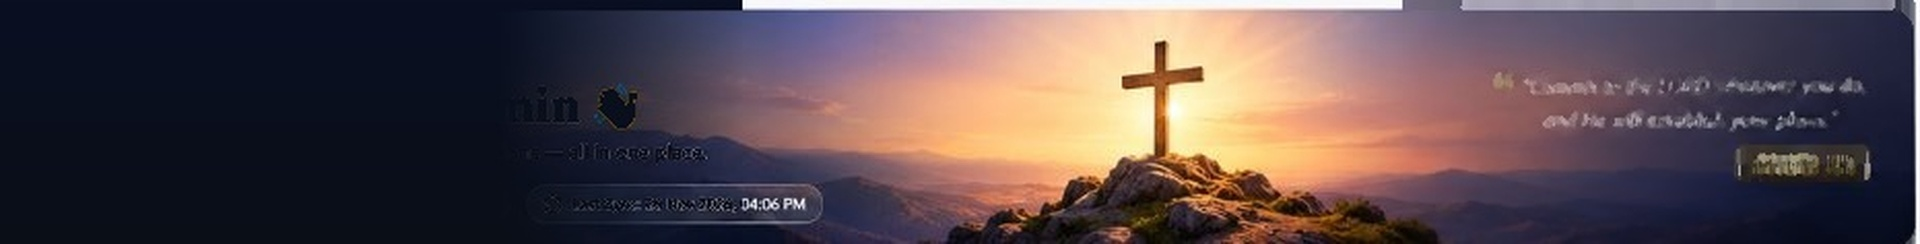
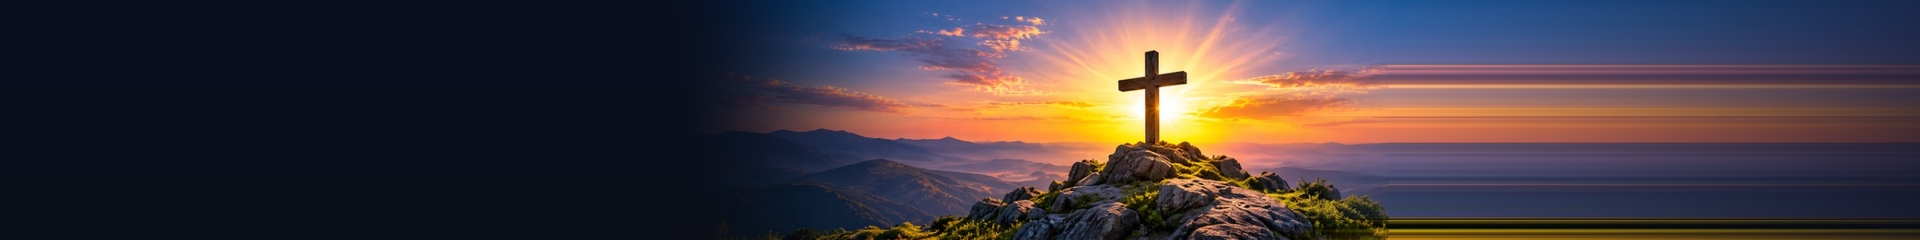
fix(admin): generate clean background from raw photo and update UI to match screenshot

diff --git a/src/app/admin/page.tsx b/src/app/admin/page.tsx
@@ -419,7 +419,7 @@ export default function AdminDashboardPage() {
 
                   {/* Badge 2: Role: SUPERADMIN */}
                   <span className="inline-flex items-center px-3 py-1 rounded-full bg-[#162130]/90 border border-amber-400/40 text-amber-300 text-[11px] font-extrabold uppercase tracking-wider shadow-xs">
-                    Role: {role ? role.toUpperCase() : 'SUPERADMIN'}
+                    ROLE: {role ? role.toUpperCase() : 'SUPERADMIN'}
                   </span>
 
                   {/* Badge 3: Last Sync Pill */}
